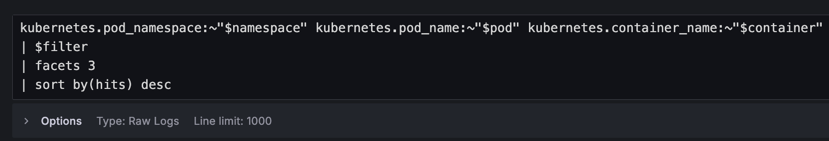
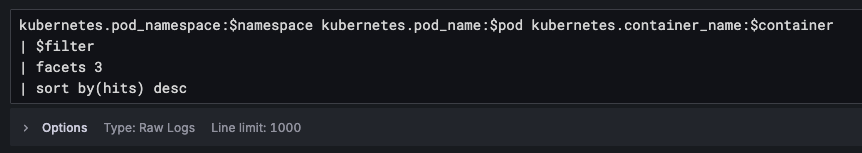
432 fix backward compatibility with queries containing regexp vars (#433)
Related issue: #432
* change regexp var error to warning
* fix backward compatibility with queries containing regexp vars
* update doc: change all images with regexp vars queries to images with word filter

diff --git a/src/parsing.test.ts b/src/parsing.test.ts
@@ -1,0 +1,51 @@
+import { removeDoubleQuotesAroundVar } from './parsing';
+
+describe('removeDoubleQuotesAroundVar', () => {
+  it('should remove double quotes around the variable name', () => {
+    const query = `"text" and "$var"`;
+    const result = removeDoubleQuotesAroundVar(query, 'var');
+    expect(result).toBe('"text" and $var');
+  });
+
+  it('should not remove double quotes if the variable name does not match', () => {
+    const query = `"text" and "$otherVar"`;
+    const result = removeDoubleQuotesAroundVar(query, 'var');
+    expect(result).toBe(`"text" and "$otherVar"`);
+  });
+
+  it('should not modify variables that already have no quotes', () => {
+    const query = `"text" and $var`;
+    const result = removeDoubleQuotesAroundVar(query, 'var');
+    expect(result).toBe(`"text" and $var`);
+  });
+
+  it('should not remove double quotes if preceded by a tilde (~)', () => {
+    const query = `"text" and ~"$var"`;
+    const result = removeDoubleQuotesAroundVar(query, 'var');
+    expect(result).toBe(`"text" and ~"$var"`);
+  });
+
+  it('should handle multiple occurrences of the same variable', () => {
+    const query = `"$var" and "$var"`;
+    const result = removeDoubleQuotesAroundVar(query, 'var');
+    expect(result).toBe(`$var and $var`);
+  });
+
+  it('should leave the string unmodified if no matching variable is found', () => {
+    const query = `"text" and "$differentVar"`;
+    const result = removeDoubleQuotesAroundVar(query, 'var');
+    expect(result).toBe(`"text" and "$differentVar"`);
+  });
+
+  it('should handle an empty query string gracefully', () => {
+    const query = ``;
+    const result = removeDoubleQuotesAroundVar(query, 'var');
+    expect(result).toBe(``);
+  });
+
+  it('should handle an empty variable name gracefully', () => {
+    const query = `"$var" and "$otherVar"`;
+    const result = removeDoubleQuotesAroundVar(query, '');
+    expect(result).toBe(`"$var" and "$otherVar"`);
+  });
+});

diff --git a/src/datasource.ts b/src/datasource.ts
@@ -40,6 +40,7 @@ import { escapeLabelValueInSelector } from "./languageUtils";
 import LogsQlLanguageProvider from "./language_provider";
 import { LOGS_VOLUME_BARS, queryLogsVolume } from "./logsVolumeLegacy";
 import { addLabelToQuery, addSortPipeToQuery, queryHasFilter, removeLabelFromQuery } from "./modifyQuery";
+import { removeDoubleQuotesAroundVar } from "./parsing";
 import { replaceOperatorWithIn, returnVariables } from "./parsingUtils";
 import { storeKeys } from "./store/constants";
 import store from "./store/store";
@@ -286,14 +287,21 @@ export class VictoriaLogsDatasource
     return Array.isArray(value) ? value.includes(VARIABLE_ALL_VALUE) : false;
   }
 
-  replaceOperatorsToInForMultiQueryVariables(expr: string,) {
+  replaceAllOption(queryExpr: string, variableName: string, regExpAllValue: string): string {
+    queryExpr = queryExpr.replace(`~"$${variableName}"`, `~"${regExpAllValue}"` || '~".*"');
+    queryExpr = queryExpr.replace(`$${variableName}`, '*');
+    return queryExpr;
+  }
+
+  replaceOperatorsToInForMultiQueryVariables(expr: string) {
     const variables = this.templateSrv.getVariables();
     const fieldValuesVariables = variables.filter(v => v.type === 'query' && v.query.type === 'fieldValue' && v.multi || this.isAllOption(v)) as QueryVariableModel[];
     let result = expr;
     for (let variable of fieldValuesVariables) {
+      result = removeDoubleQuotesAroundVar(result, variable.name);
       result = replaceOperatorWithIn(result, variable.name);
       if (this.isAllOption(variable)) {
-        result = result.replace(`$${variable.name}`, '*');
+        result = this.replaceAllOption(result, variable.name, variable.allValue || '.*');
       }
     }
     return result;

diff --git a/src/components/QueryEditor/QueryEditorVariableRegexpError.tsx b/src/components/QueryEditor/QueryEditorVariableRegexpError.tsx
@@ -1,24 +1,32 @@
 import { css } from "@emotion/css";
-import React from 'react';
+import React, { useCallback } from 'react';
 
 import { GrafanaTheme2 } from "@grafana/data";
-import { Badge, useTheme2 } from "@grafana/ui";
+import { Badge, TextLink, useTheme2 } from "@grafana/ui";
 
 import { replaceRegExpOperatorToOperator } from "../../LogsQL/regExpOperator";
-
+import { Query } from "../../types";
 
 interface Props {
   regExp: string;
+  query: Query;
+  onChange: (query: Query) => void;
 }
 
-const QueryEditorVariableRegexpError = ({ regExp }: Props) => {
+const QueryEditorVariableRegexpError = ({ regExp, query, onChange }: Props) => {
   const theme = useTheme2();
   const styles = getStyles(theme);
   const fixedFilter = replaceRegExpOperatorToOperator(regExp);
+  const onApply = useCallback((e: React.MouseEvent) => {
+    e.preventDefault();
+    const queryExpr = replaceRegExpOperatorToOperator(query.expr);
+    onChange({ ...query, expr: queryExpr });
+  }, [onChange, query])
 
   const text = (
     <div>
-      Regexp operator `~` cannot be used with variables in `{regExp}`. Use exact match operator `:` (e.g. `{fixedFilter}`) or use non variable in regexp instead.
+      Regexp operator `~` cannot be used with variables in `{regExp}`. Use word filter operator `:` (e.g. `{fixedFilter}`)
+      or use non variable in regexp instead. <TextLink onClick={onApply} href={""}>Apply fix</TextLink>
     </div>
   )
 

diff --git a/src/LogsQL/regExpOperator.test.ts b/src/LogsQL/regExpOperator.test.ts
@@ -139,5 +139,21 @@ describe('regExpOperator', () => {
       const result = replaceRegExpOperatorToOperator('field.name.with.dots:~$variable');
       expect(result).toEqual('field.name.with.dots:$variable');
     });
+
+    it('should replace all regexp vars', () => {
+      const result = replaceRegExpOperatorToOperator('field.name.with.dots1:~$variable field.name.with.dots2:~$variable | field.name.with.dots3:~$variable field.name.with.dots4:~variable field.name.with.dots3:$variable');
+      expect(result).toEqual('field.name.with.dots1:$variable field.name.with.dots2:$variable | field.name.with.dots3:$variable field.name.with.dots4:~variable field.name.with.dots3:$variable');
+    });
+
+    it('should replace all regexp vars with new lines', () => {
+      const result = replaceRegExpOperatorToOperator(`kubernetes.pod_namespace:~"$namespace" kubernetes.pod_name:~"$pod" 
+                                                                          | stats by(kubernetes.pod_name) count() 
+                                                                          | count()`
+      );
+      expect(result).toEqual(`kubernetes.pod_namespace:"$namespace" kubernetes.pod_name:"$pod" 
+                                                                          | stats by(kubernetes.pod_name) count() 
+                                                                          | count()`
+      );
+    });
   });
 });

diff --git a/src/components/QueryEditor/QueryEditor.tsx b/src/components/QueryEditor/QueryEditor.tsx
@@ -26,7 +26,7 @@ import { changeEditorMode, getQueryWithDefaults } from "./state";
 const QueryEditor = React.memo<VictoriaLogsQueryEditorProps>((props) => {
   const styles = useStyles2(getStyles);
 
-  const { onChange, onRunQuery: runQuery, data, app, queries, datasource, range: timeRange } = props;
+  const { onChange, onRunQuery, data, app, queries, datasource, range: timeRange } = props;
   const [dataIsStale, setDataIsStale] = useState(false);
   const [parseModalOpen, setParseModalOpen] = useState(false);
 
@@ -61,13 +61,6 @@ const QueryEditor = React.memo<VictoriaLogsQueryEditorProps>((props) => {
     }
     onChange(query);
   };
-
-  const onRunQuery = useCallback(() => {
-    if(varRegExp) {
-      return;
-    }
-    runQuery();
-  }, [runQuery, varRegExp]);
 
   useEffect(() => {
     // grafana with a version below 12 doesn't support subscribe function on store
@@ -125,7 +118,7 @@ const QueryEditor = React.memo<VictoriaLogsQueryEditorProps>((props) => {
           ) : (
             <QueryCodeEditor {...props} query={query} onChange={onChangeInternal} showExplain={true}/>
           )}
-          {varRegExp && (<QueryEditorVariableRegexpError regExp={varRegExp} />)}
+          {varRegExp && (<QueryEditorVariableRegexpError regExp={varRegExp} query={query} onChange={onChange}/>)}
           <QueryEditorOptions
             query={query}
             onChange={onChange}

diff --git a/src/LogsQL/regExpOperator.ts b/src/LogsQL/regExpOperator.ts
@@ -1,12 +1,21 @@
 /**
  * Regular expression for matching variables in a query expression -> filterName:~"$VariableName"
  * */
-const variableRegExp = /(^|\||\s)([^\s:~]+)\s*:\s*~\s*(?:"(\$[A-Za-z0-9_.-]+)"|(\$[A-Za-z0-9_.-]+)|"([^"]+)"|([^\s|]+))(?=\s|\||$)/;
+const variableRegExpPattern = /(^|\||\s)([^\s:~]+)\s*:\s*~\s*(?:"(\$[A-Za-z0-9_.-]+)"|(\$[A-Za-z0-9_.-]+)|"([^"]+)"|([^\s|]+))(?=\s|\||$)/;
 
 export function getQueryExprVariableRegExp(queryExpr: string) {
-  return variableRegExp.exec(queryExpr);
+  return new RegExp(variableRegExpPattern).exec(queryExpr);
 }
 
 export function replaceRegExpOperatorToOperator(queryExpr: string, operator = ':') {
-  return queryExpr.replace(variableRegExp, `$1$2${operator}$4`);
+  return queryExpr.replace(new RegExp(variableRegExpPattern, 'g'), (match, p1, p2, p3, p4) => {
+    // p3 - "$variable"
+    // p4 - $variable
+    const variable = p3 || p4;
+    if (variable) {
+      const value = p3 ? `"${variable}"` : variable;
+      return `${p1}${p2}${operator}${value}`;
+    }
+    return match;
+  });
 }

diff --git a/src/parsing.ts b/src/parsing.ts
@@ -7,3 +7,10 @@ export function handleQuotes(string: string) {
   }
   return string.replace(/`/g, '');
 }
+
+// remove double quotes around the variable name if it's not a regex selector `~`
+export function removeDoubleQuotesAroundVar(queryExpr: string, variableName: string): string {
+  const regex = new RegExp(`(?<!~)"\\$${variableName}"`, 'g');
+  queryExpr = queryExpr.replace(regex, `$${variableName}`);
+  return queryExpr;
+}

diff --git a/CHANGELOG.md b/CHANGELOG.md
@@ -2,6 +2,8 @@
 
 ## tip
 
+* BUGFIX: fix backward compatibility with queries containing regexp variables. Error in queries with regexp variables has been replaced with a warning with quick fix action. See [#432](https://github.com/VictoriaMetrics/victorialogs-datasource/pull/432).
+
 ## v0.21.3
 
 * BUGFIX: sanitize URLs to prevent potential security issues, properly close gzip reader to prevent resource leaks, fix text filter interpolation for `*` character. See pr [#429](https://github.com/VictoriaMetrics/victorialogs-datasource/pull/429).
